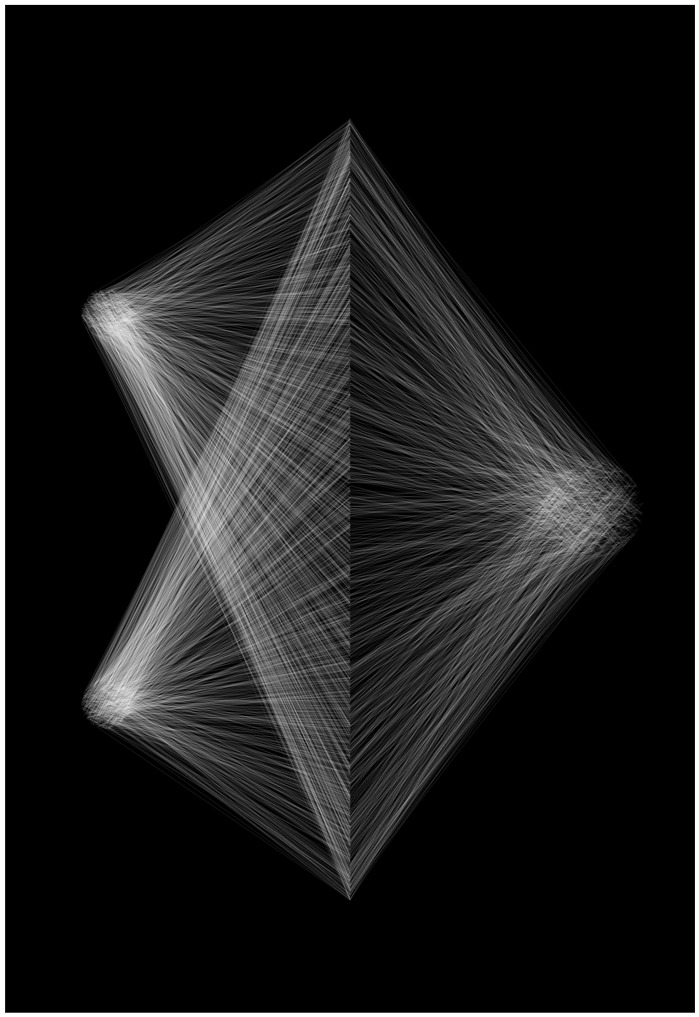
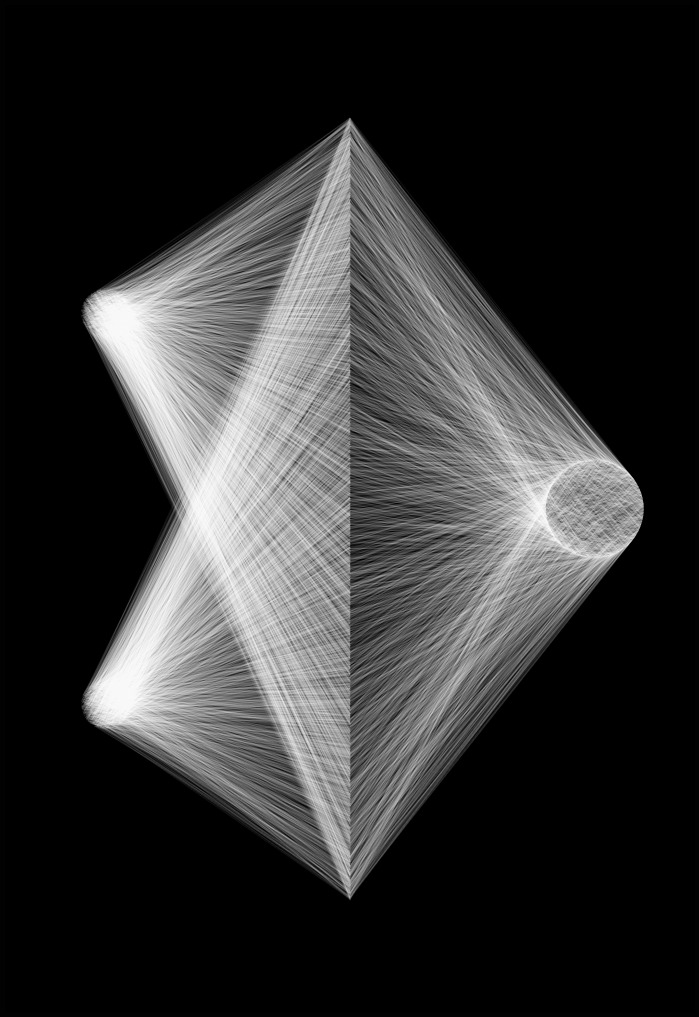
misc

diff --git a/www/doc/lines.html b/www/doc/lines.html
@@ -3,28 +3,17 @@
  <p><img  src="/doc/lines_lights.jpg?alt=media" style="bborder:thin black solid;cursor:pointer"  width="300" height="450" /></p>
  <p>Here's the code:</p>
 <precode>
-
-import {rs as linePP} from '/line/line.mjs';
+import {rs as linePP} from '/shape/line.mjs';
 import {rs as basicP} from '/generators/basics.mjs';
 import {rs as addLinesMethods} from '/mlib/lines.mjs';	
 
 let rs = basicP.instantiate();
 addLinesMethods(rs);
-rs.setName('lines_example');
+rs.setName('lines_lights');
 let wd = 130;
 let ht = 1.5*wd;
-let topParams = {width:wd,height:ht,numLines:3000,angleMin:-90,angleMax:90,framePadding:0.17*wd,frameStroke:"white"}
+let topParams = {width:wd,height:ht,numLines:3000,framePadding:0.1*wd}
 Object.assign(rs,topParams);
-
-// If <span class="codeVar">shapePairs</span> is defined, lines are generated to run between the given pairs of shapes. 
-// They are generated randomly to meet this condition. The parameter <span class="codeVar">numLines</span>
-// specifies how many lines should be generated. The lines generated must also obey the
-// constraint specified by <span class="codeVar">angleMax</span> and <span class="codeVar">angleMin</span>
-
-rs.shapePairs = 
-[[geom.Circle.mk(Point.mk(-50,40),5),geom.LineSegment.mk(Point.mk(0,-80),Point.mk(0,80))],
- [geom.Circle.mk(Point.mk(-50,-40),5),geom.LineSegment.mk(Point.mk(0,-80),Point.mk(0,80))],
- [geom.LineSegment.mk(Point.mk(0,-80),Point.mk(0,80)),geom.Circle.mk(Point.mk(50,0),10),]];
  
 rs.initProtos = function () {
   core.assignPrototypes(this,'lineP',linePP);
@@ -32,24 +21,26 @@ rs.initProtos = function () {
   this.lineP['stroke-width'] = .015; 	
 }  
 
-
 rs.initialize = function () {
-debugger;
   core.root.backgroundColor = 'black';
+  let {numLines,lineP} = this;
   this.addFrame();
   this.initProtos();
-  this.initializeLines();
+  let theLineSeg = LineSegment.mk(Point.mk(0,-80),Point.mk(0,80));
+  this.generateLines({src:Circle.mk(Point.mk(-50,40),5),dst:theLineSeg,numLines:numLines,lineP:this.lineP});
+  this.generateLines({src:Circle.mk(Point.mk(-50,-40),5),dst:theLineSeg,numLines:numLines,lineP:this.lineP});
+  this.generateLines({src:Circle.mk(Point.mk(50,0),10),srcOn:1,dst:theLineSeg,numLines:numLines,lineP:this.lineP});
 }	
 export {rs};
 
 </precode>
-<p> Several of the parameters in </p>
+<p> The calls of the form</p>
 <precode>
-let topParams = {numRows:nr,numCols:nr,width:wd,height:wd,frameColor:'rgb(2,2,2)',pointJiggle:4,framePadding:0.15*wd,frameVisible:1};
+  this.generateLines({src:geometricObject,srcOn:boolean,dst:geometricObject,numLines:number,lineP:lineShape});
 </precode>
-First, <span class="textVar">pointJiggle</span> , if defined and non-zero, causes two bounded grids to be setup via <em>setupRandomGridForBoundaries</em>,named xJiggle and yJiggle. Then the points in the grid are jiggled by the amounts specified in those bounded grids. The maximum amount of jiggle is given by the pointJiggle parameter. Since the grids are bounded, the amount of jiggle varies smoothly across the grid.</p>
-<p>
-Next, the frame parameters need explanation. The frame facility, which draws the white rectangle around the grid, is <a href="/doc/frame.html">documented separately</a>, since the frame facility is implemented in the basics module, not the grid module, and can be used with any of the image generation modules in prototypejungle.</p>
+<p>perform the work of drawing lines. In particular numLines lines are drawn between the geometricObject  src and the geometricObject dst. src and dst can be LineSegments, Rectangles, or Circles. If srcOn is truthy, then lines are drawn from random points on the periphery of the geometricObject, and if falsy (the default), from random  points in the interiors of those objects. Same for dstOn. LineSegments have no interior, so srcOn and dstOn have no effect in this case.
+</p>
+
 {{endplate}}
 
 

diff --git a/www/doc/assembly.html b/www/doc/assembly.html
@@ -1,0 +1,91 @@
+{{boilerplate1}}
+<p class="title">Assembly and Instances</p>
+<p> A technique for assembling images from parts will be introduced via annotated code, which generates the image</p>
+ <p><img  src="/doc/lines_1.jpg?alt=media" style="bborder:thin black solid;cursor:pointer"  width="300" height="300" /></p>
+ <p>Here's the code:</p>
+<precode>
+
+import {rs as linePP} from '/line/line.mjs';
+import {rs as basicP} from '/generators/basics.mjs';
+import {rs as fromCenterP} from '/generators/lines_from_center.mjs';	
+import {rs as cobwebP} from '/generators/lines_cobweb.mjs';	
+
+let rs = basicP.instantiate();
+
+rs.setName('lines_1');
+let wd = 600;
+let topParams = {width:wd,height:wd,framePadding:0.1*wd};
+Object.assign(rs,topParams);
+
+rs.initialize = function () {
+  let {width} = this;
+  let mv = 0.25*width;
+  this.addFrame();
+  let quad00 = this.set('quad00',fromCenterP.instantiate().show());
+  let quad10 = this.set('quad10',fromCenterP.instantiate().show());
+  let quad01= this.set('quad01',cobwebP.instantiate().show());
+  let quad11 = this.set('quad11',cobwebP.instantiate().show());
+  quad00.width = quad00.height = 0.5*wd;
+  quad00.initialize();
+  quad00.moveto(Point.mk(-mv,-mv));
+  quad10.width = quad10.height = 0.5*wd;
+  quad10.lineColor = 'black';
+  quad10.backgroundColor = 'white';
+  quad10.initialize();
+  quad10.moveto(Point.mk(mv,-mv));
+  quad01.width = quad01.height = 0.5*wd;
+  quad01.initialize();
+  quad01.moveto(Point.mk(-mv,mv));
+  quad11.width = quad11.height = 0.5*wd;
+  quad11.lineColor = 'black';
+  quad11.backgroundColor = 'white';
+  quad11.initialize();
+  quad11.moveto(Point.mk(mv,mv));
+
+}
+
+export {rs};
+</precode>
+<p> Here the lines
+<precode>
+import {rs as fromCenterP} from '/generators/lines_from_center.mjs';	
+import {rs as cobwebP} from '/generators/lines_cobweb.mjs';	
+</precode>
+<p>import two image generators. These generators are instantiated and added to the shape tree via the lines:</p>
+<precode>
+let quad00 = this.set('quad00',fromCenterP.instantiate().show());
+let quad10 = this.set('quad10',fromCenterP.instantiate().show());
+let quad01= this.set('quad01',cobwebP.instantiate().show());
+let quad11 = this.set('quad11',cobwebP.instantiate().show());
+</precode>
+<p>Next the quad's width, height, lineColor and backgroundColor parameters are set. Finally they are initialized and moved into place.
+This illustrates the assembly of an image from already defined parts.</p><p>  The same technique can be used to create an instance of an existing generator with modified parameters. For example, the following code</p>
+<precode>
+
+import {rs as linePP} from '/line/line.mjs';
+import {rs as generatorP} from '/generators/drop_ice.mjs';
+
+let rs = generatorP.instantiate();
+
+rs.setName('drop_blue_ice');
+let ht  = 200;
+let topParams = {width:1.5*ht,height:ht,framePadding:.17*ht}
+
+Object.assign(rs,topParams);
+
+rs.initProtos = function () {
+	this.lineP = linePP.instantiate();
+	this.lineP.stroke = 'blue';
+	this.lineP['stroke-width'] = .3;
+}  
+
+export {rs};
+</precode>
+<p> will produce the following variant (blue and wide) of the image generated by the code in the drop example:</p>
+ <p><img  src="/doc/drop_blue_ice.jpg?alt=media" style="bborder:thin black solid;cursor:pointer"  width="450" height="300" /></p>
+<p> It is conventional to place code which generates an instance in the www/instances directory rather than in www/generators.</p>
+</p>
+
+{{endplate}}
+
+

diff --git a/www/doc/prototypetree.html b/www/doc/prototypetree.html
@@ -4,7 +4,7 @@
 <p>The objects manipulated by PrototypeJungle, for the most part, possess  a structure called a "prototype tree". By this I mean a JavaScript object  that is a tree from the standpoint of the <a  href="https://www.javascripttutorial.net/javascript-own-properties/">object-to-own-property-value</a> relation, but in which <a href="https://developer.mozilla.org/en-US/docs/Web/JavaScript/Inheritance_and_the_prototype_chain">prototype chains</a> and functions may appear. Here is an example of such a structure:</p>
  <img id="diagram" src="/doc/prototypeDiagram1_withText.svg?alt=media" style="bborder:thin black solid;cursor:pointer"  width="550" height="250"/>
 
-<p><b>instantiate</b> is the core method of this structure. For a prototype tree y, </p>
+<p><span class="textVar">instantiate</span> is the core method of this structure. For a prototype tree y, </p>
 
 <precode>
 let x = y.instantiate();
@@ -16,7 +16,7 @@ let x = y.instantiate();
 let x = <a href="https://developer.mozilla.org/en-US/docs/Web/JavaScript/Reference/Global_Objects/Object/create">Object.create</a>(y);
 </precode>
 
-<p>In both cases <b>x</b> is a new object that inherits, prototype-style, from <b>y</b>.  The difference is that while <b>Object.create</b> operates at only one level, <b>y.instantiate()</b> does a deep copy of <b>y</b> as a tree, and returns a structure in which all of the copied nodes inherit prototype-wise from the nodes from which they were copied, and in which the prototype chains of y have also been copied into x. Full detail can be found <a href="/doc/tech.html">here.<a></p>
+<p>In both cases <span class="textVar">x</span> is a new object that inherits, prototype-style, from <span class="textVar">y</span>.  The difference is that while <span class="textVar">Object.create</span> operates at only one level, <span class="textVar">y.instantiate()</span> does a deep copy of <span class="textVar">y</span> as a tree, and returns a structure in which all of the copied nodes inherit prototype-wise from the nodes from which they were copied, and in which the prototype chains of <span class="textVar">y</span> have also been copied into <span class="textVar">x</span>. Full detail can be found <a href="/doc/tech.html">here.<a></p>
 
 
 {{endplate}}

diff --git a/www/doc/installation.html b/www/doc/installation.html
@@ -2,14 +2,17 @@
 <p class="title">Installation</a></p>
 
 
-<p>First download this zip, or clone from github.  You can place the prototypejungle directory anywhere you like. Install <a href="https://nodejs.org/node">node</a>, if it is not already present on your machine. In a shell, rev up the server:</p>
+<p>First download this zip, or clone from github.  You can place the PrototypeJungle directory anywhere you like. Install <a href="https://nodejs.org/node">node</a>, if it is not already present on your machine. In a shell, rev up the server:</p>
 
 <precode>
 cd &lt;prototypejungle&gt;
 node server/server.js
 </precode>
 
-<p>Then direct your browser to <a href="http://localhost:8081/images.html">http://localhost:8081/images.html</a>. You can edit and rebuild any of the images already present, or create new ones of your own.</p>
+<p>Then you can run an image generator by, for example, directing your browser to </p>
+<p class="txtVar"><a href="http://localhost:8081/draw.html?source=/generators/lines_chaos_within_order.mjs">http://localhost:8081/draw.html?source=/generators/lines_chaos_within_order.mjs</a>. </p>
+<!-- <p>The source file for this generator is at <span class="textVar">&lt;prototypejungle&gt;/www/generators/lines_chaos_within_order.mjs--></p>
+<p> <span class="typeVar"><a href="http://localhost:8081/index.html">http://localhost:8081/index.html</a></span> gets you to this documentation served from the local server you just started. Then <a href="http://localhost:8081/images.html">http://localhost:8081/images.html</a> yields a page from which you can access all of the image generators that come with this installation. You can modify the generators, or write new ones, by editing or creating files in the directory <span class="textVar">&lt;prototypejungle&gt;/www/generators/</span>. </p>
 
  
 

diff --git a/www/index.html b/www/index.html
@@ -1,12 +1,13 @@
 {{boilerplate1}}
 <p class="title">PrototypeJungle</a></p>
 
-<p class="title"><img  src="/doc/grid_maze.jpg?alt=media" style="bborder:thin black solid;cursor:pointer"  width="900" height="150" max-height="500"/></p>
+<p class="title"><img  src="doc/grid_maze.jpg?alt=media" style="bborder:thin black solid;cursor:pointer"  width="900" height="150" max-height="500"/></p>
 <p class="title">Image Generation via <a href="/doc/prototypetree.html">Prototype Trees</a></p>
 <p>First have a look at some more <a href="/images.html">images</a> that this JavaScript library has generated</p>
 <p>PrototypeJungle runs in the browser, and can be downloaded here, or cloned from github. It comes with its own little web server, written in node, intended for running locally, so that you can generate and save your own images. Installation takes a minute. The software is free and open source (MIT license).</p>
- <p><a href="/images.html">Images</a> </p>
- <p><a href="/doc/installation.html">Installation</a> </p>
+ <p><a href="doc/installation.html">Installation</a> </p>
+  <p><a href="images.html">Images</a> </p>
+
    <p><a href="/doc/types.html">Type Notation</a> </p>
 
  <p><a href="/doc/generators.html">Image Generators</a> </p>
@@ -16,6 +17,7 @@
  <p class="indent2"><a href="/doc/paramsByCell.html">paramsByCell</a> </p>
   <p class="indent"><a href="/doc/lines.html">lines</a> </p>
   <p class="indent"><a href="/doc/drop.html">drop</a> </p>
+  <p><a href="/doc/assembly.html">assemblies and instances</a> </p>
    <p>Background</p>
  <p class="indent"><a href="/doc/prototypetree.html">Prototype Trees</a> </p>
 <p class="indent"><a href="/doc/geometry.html">Geometry</a> </p>

diff --git a/www/doc/types.html b/www/doc/types.html
@@ -1,3 +1,4 @@
+
 {{boilerplate1}}
 <p class="title">Type Notation</p>
 <p> In these documents, I will use the notation exemplified below to indicate the types of functions:</p>
@@ -5,7 +6,7 @@
 nd.set(name:string,shp:shape) => shape
 </precode></span>
 
-<p>This means that the first argument to the method <span class="textVar">nd.set</span> is meant to be a <span class="textVar">string</span>, and the second a <span class="textVar">shape</span>, and that the output is a <span class="textVar">shape</span>. The variable names nm and shp serve only as a way to reference the arguments in subsequent text, and have no other significance. The types string and shape are not formal, but rather informal names of a kinds of JavaScript values. Of course JavaScript is not a statically typed language, so you will see
+<p>This means that the first argument to the method <span class="textVar">nd.set</span> is meant to be a <span class="textVar">string</span>, and the second a <span class="textVar">shape</span>, and that the output is a <span class="textVar">shape</span>. The variable names <span class="textVar">nm</span> and <span class="textVar">shp</span> serve only as a way to reference the arguments in subsequent text, and have no other significance. The types string and shape are not formal, but rather informal names of a kinds of JavaScript values. Of course JavaScript is not a statically typed language, so you will see
 things like </p>
 
 <precode>

diff --git a/admin/genGrids.js b/admin/genGrids.js
@@ -290,7 +290,8 @@ const thingString = function (order,ix,dir,useThumb,ititle,props) {
 	let lastPageArg = (pageNumber === numPages)?'&lastPage=1':'';
 	let rs;
 	//let astart = `<a style="color:white" href="page.html?image=${vx}&${pageArg}&${kindArg}&${localArg}">`;
-	let astart = `<a style="color:white" href="/page.html?image=${vx}&${pageArg}&${kindArg}">`;
+	let astart = `<a style="color:white" href="page.html?image=${vx}&${pageArg}&${kindArg}">`;
+  console.log('ASTART',astart);
  // let likesStr = likes?`<span style="font-size:10pt">Likes ${likes} ${category}</span><br/>`:'';
   //let propsStr = `<span style="font-size:10pt">Likes ${likes?likes:'none'} Order ${order}${posted?"":" NOT POSTED"} ${category}</span><br/>`;
   let propsStr = `<span style="font-size:10pt">${likes?'Likes '+likes:''} ${posted?"":" NOT POSTED"} ${localim?'Local':''} ${category}</span><br/>`;

diff --git a/www/doc/geometry.html b/www/doc/geometry.html
@@ -1,7 +1,7 @@
 {{boilerplate1}}
 <p class="title">Geometry</p>
-<p>PrototypeJungle defines geometric types (implemented as prototypes) and methods that are directly accessible in any context.
-These types and methods are specified below.</p>
+<p>PrototypeJungle defines geometric types (implemented as prototypes) and methods that are directly accessible in any context. Geometic objects are used in the course of geometric computations, but do not have a visible form. <span class="textVar"><a href="shapes.html">shapes</a></span>, covered in the next section, are the visible elements.</p>
+<p>The geometric types and their properties and methods are specified below.</p>
 
 <p class="textVar" id="Point">Point</p>
 </p>

diff --git a/www/topdefs.js b/www/topdefs.js
@@ -3,7 +3,7 @@ let graph = {};
 graph.installCirclePeripheryOps = () => {};
 let ui = {};
 ui.hide = () => {};
-let {core,geom,dom,draw}=Window,codeRoot=core.codeRoot,root=3,Point=geom.Point,LineSegment=geom.LineSegment,Point3d=geom.Point3d,Affine3d=geom.Affine3d,Segment3d=geom.Segment3d,Shape3d=geom.Shape3d;Line3d=geom.Line3d;Plane=geom.Plane;Cube=geom.Cube;Rectangle=geom.Rectangle;
+let {core,geom,dom,draw}=Window,codeRoot=core.codeRoot,root=3,Point=geom.Point,LineSegment=geom.LineSegment,Circle=geom.Circle,Point3d=geom.Point3d,Affine3d=geom.Affine3d,Segment3d=geom.Segment3d,Shape3d=geom.Shape3d;Line3d=geom.Line3d;Plane=geom.Plane;Cube=geom.Cube;Rectangle=geom.Rectangle;
 let svg;
 if (dom) {
 	svg = dom.svg;

diff --git a/www/doc/method_modules.html b/www/doc/method_modules.html
@@ -6,6 +6,6 @@
 <p>and drop.mjs generates images by dropping elementary shapes onto the image at random, while avoiding collisions. Image modules can, and usually are, used together. </p>
 
  <p><img  src="/doc/drop_ice.jpg?alt=media" style="bborder:thin black solid;cursor:pointer"  width="300" height="300" max-height="500"/></p>
-<p> See the documentation for the individual method modules for numerous examples.
+<p> The modules are described one by one in the following sections of this document.</p>
 </body>
 </html>

diff --git a/www/doc/generators.html b/www/doc/generators.html
@@ -1,4 +1,5 @@
 {{boilerplate1}}
+<p class="title">Image Generators</p>
 <p>In PrototypeJungle, the fundamental unit of code is the <i>image generator</i> Let's start with an example. Consider the following code:</p>
 
 <precode>
